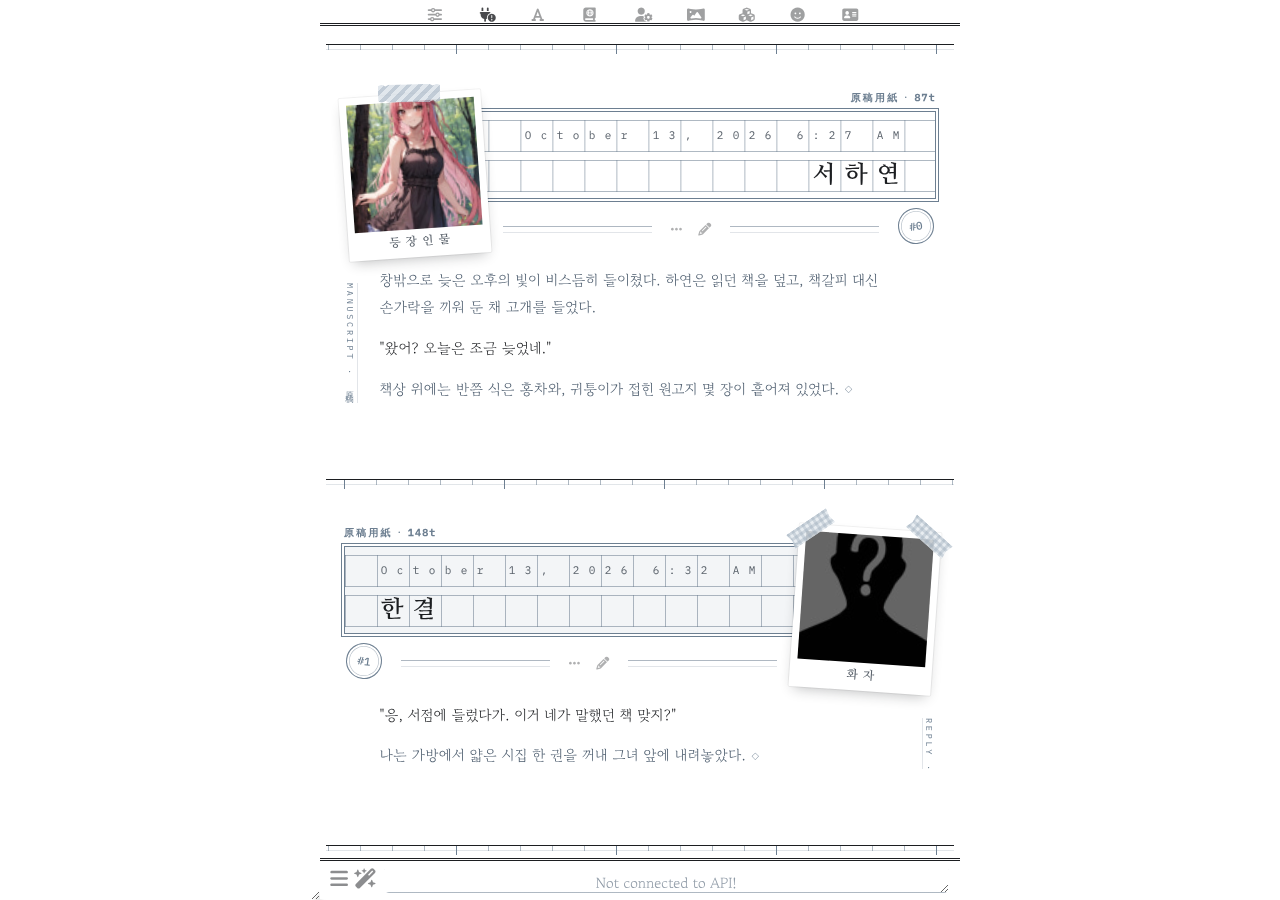
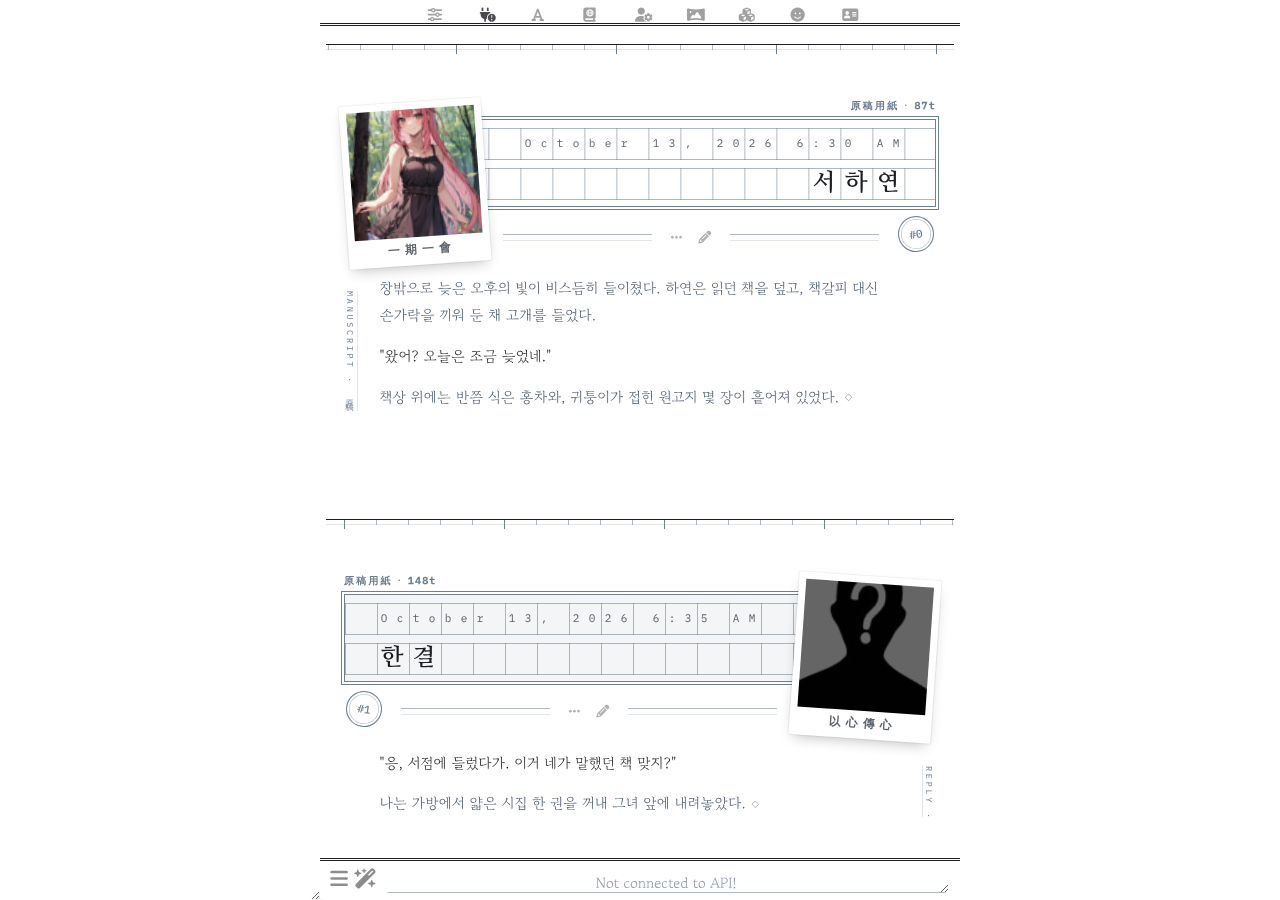
Wongoji: idiom captions, no tapes, more space between messages
- Polaroid captions use four-character idioms (一期一會 / 以心傳心),
  documented as easy-to-edit variables
- Remove polaroid tape stickers
- Larger gap between messages via --wg-after

Claude-Session: https://claude.ai/code/session_01VxNZVdN99GR1yFwUVAN4mT

diff --git a/src/wongoji.css b/src/wongoji.css
@@ -30,9 +30,12 @@
     /* 폴라로이드 사진 필터. 흑백으로 보고 싶다면 grayscale(1) */
     --wg-photo-filter: none;
 
-    /* 폴라로이드 아래 인쇄 글씨 — 소설의 '등장인물'과 '화자' */
-    --wg-caption-char: '등장인물';
-    --wg-caption-user: '화자';
+    /* ── 폴라로이드 아래 글귀 ─────────────────────────────
+       따옴표 안의 글자만 바꾸면 됩니다. 예) '春風秋雨', '그날의 기록'
+       一期一會 (일기일회) — 일생에 단 한 번의 만남
+       以心傳心 (이심전심) — 마음에서 마음으로 전함            */
+    --wg-caption-char: '一期一會';
+    --wg-caption-user: '以心傳心';
 
     /* 띠 위 여백에 인쇄된 이름 (토큰 수가 뒤에 붙습니다) */
     --wg-paper-label: '原稿用紙';
@@ -56,7 +59,8 @@
     --wg-cell: 32px;              /* 칸 */
     --wg-gap: 8px;                /* 줄 사이 틈 */
     --wg-name-size: 24px;         /* 이름 글자 (칸보다 작게) */
-    --wg-pad: 66px;               /* 구분선과 띠 사이 */
+    --wg-pad: 74px;               /* 구분선과 띠 사이 */
+    --wg-after: 108px;            /* 본문 끝과 다음 구분선 사이 */
     --wg-side: 18px;
     --wg-photo: 128px;
     --wg-stamp-size: 36px;               /* 번호 도장 지름 */
@@ -81,7 +85,8 @@
         --wg-ts-per: 3;
         --wg-gap: 6px;
         --wg-name-size: 19px;
-        --wg-pad: 56px;
+        --wg-pad: 62px;
+        --wg-after: 92px;
         --wg-side: 10px;
         --wg-photo: 100px;
         --wg-stamp-size: 31px;
@@ -190,7 +195,7 @@ body {
 
     display: block;
     position: relative;
-    padding: calc(var(--wg-pad) + var(--wg-band-h) + 12px) var(--wg-side) 76px;
+    padding: calc(var(--wg-pad) + var(--wg-band-h) + 12px) var(--wg-side) var(--wg-after);
     margin: 0;
     /* 구분선 — 원고지 낱장의 머리처럼, 칸마다 눈금을 새긴 자 */
     border-top: 1px solid var(--wg-ink);
@@ -297,50 +302,6 @@ body {
 
 #chat .mes .avatar:hover {
     transform: rotate(0deg) scale(1.03);
-}
-
-/* 마스킹 테이프 */
-#chat .mes .avatar::before {
-    content: '';
-    position: absolute;
-    top: calc(var(--wg-frame) * -1.5);
-    left: 50%;
-    width: 44%;
-    height: calc(var(--wg-frame) * 2.6);
-    transform: translateX(-50%) rotate(3deg);
-    background: repeating-linear-gradient(-45deg,
-        rgba(170, 184, 199, 0.72) 0 4px,
-        rgba(214, 222, 230, 0.72) 4px 8px);
-    clip-path: polygon(0 8%, 6% 0, 12% 10%, 18% 0, 82% 0, 88% 10%, 94% 0, 100% 8%,
-        100% 92%, 94% 100%, 88% 90%, 82% 100%, 18% 100%, 12% 90%, 6% 100%, 0 92%);
-    z-index: 1;
-}
-
-/* 유저 — 모서리 두 곳에 체크무늬 테이프 */
-#chat .mes[is_user="true"] .avatar::before,
-#chat .mes[is_user="true"] .avatar::after {
-    content: '';
-    position: absolute;
-    top: calc(var(--wg-frame) * -0.6);
-    width: 34%;
-    height: calc(var(--wg-frame) * 2.4);
-    background:
-        linear-gradient(90deg, rgba(150, 166, 182, 0.35) 50%, transparent 50%) 0 0 / 6px 6px,
-        linear-gradient(rgba(150, 166, 182, 0.35) 50%, transparent 50%) 0 0 / 6px 6px,
-        rgba(226, 232, 238, 0.8);
-    clip-path: polygon(0 0, 100% 0, 96% 50%, 100% 100%, 0 100%, 4% 50%);
-    z-index: 1;
-}
-
-#chat .mes[is_user="true"] .avatar::before {
-    left: calc(var(--wg-frame) * -1.8);
-    transform: rotate(-38deg);
-}
-
-#chat .mes[is_user="true"] .avatar::after {
-    left: auto;
-    right: calc(var(--wg-frame) * -1.8);
-    transform: rotate(38deg);
 }
 
 #chat .mes .avatar img {
@@ -869,7 +830,7 @@ body.no-tokenCount #chat .mes .ch_name::after {
     content: var(--wg-spine-char);
     position: absolute;
     top: calc(var(--wg-pad) + var(--wg-band-h) + 84px);
-    bottom: 76px;
+    bottom: var(--wg-after);
     left: var(--wg-side);
     width: 14px;
     box-sizing: border-box;

diff --git a/README.md b/README.md
@@ -14,7 +14,7 @@ SillyTavern UI 테마입니다. 흰 바탕과 먹, 청회색으로 인쇄된 원
   - 둘째 줄: 이름을 한 칸에 한 글자씩. 모두 끝 한 칸을 비우고 적습니다.
   - 띠 위 여백에는 `原稿用紙 · 412t`처럼 메시지의 토큰 수가 인쇄됩니다. 토큰 수 표시(Message Token Count)를 끄면 `原稿用紙`만 남습니다.
   - 띠 끝 아래에는 채팅 번호가 원형 도장으로 찍힙니다.
-- **폴라로이드**: 아바타는 컬러 폴라로이드로 띠 위에 비스듬히 겹쳐 놓입니다. 캐릭터 사진에는 가운데에 사선 줄무늬 테이프가, 유저 사진에는 두 모서리에 체크무늬 테이프가 붙습니다. 아래 여백에는 소설 용어로 `등장인물`(캐릭터), `화자`(유저)가 인쇄됩니다.
+- **폴라로이드**: 아바타는 컬러 폴라로이드로 띠 위에 비스듬히 겹쳐 놓입니다. 아래 여백에는 사자성어가 인쇄됩니다. 캐릭터는 `一期一會`(일기일회, 일생에 단 한 번의 만남), 유저는 `以心傳心`(이심전심, 마음에서 마음으로 전함)이고, 원하는 글귀로 쉽게 바꿀 수 있습니다(아래 참고).
 - **버튼 줄**: 띠와 본문 사이에 메시지 버튼을 두고, 그 양옆에 가는 이중 괘선을 그었습니다.
 - **본문**: 가독성을 위해 틀과 칸 배경 없이 종이 위에 바로 씁니다. 본문 옆에 책등처럼 세로 표기(`MANUSCRIPT · 原稿`, `REPLY · 答書`)가 붙고, 글 끝에는 마침 기호 `◇`가 찍힙니다.
 - **문장 표현**: 대사와 본문은 먹색, 지문과 속마음은 청회색입니다. 인용(`>`)은 책 뒤표지의 제사(題辭)처럼 큰 따옴표가 달린 가운데 정렬 청회색 상자로, 장면 전환(`---`)은 `＊`로 보입니다.
@@ -35,13 +35,27 @@ SillyTavern UI 테마입니다. 흰 바탕과 먹, 청회색으로 인쇄된 원
 
 모든 값은 Custom CSS 맨 위 `:root` 변수에 모여 있습니다.
 
+### 폴라로이드 글귀 바꾸기
+
+SillyTavern → 사용자 설정 → **Custom CSS** 맨 위에서 아래 두 줄을 찾아 따옴표 안의 글자만 바꾸면 됩니다. 한자, 한글, 영문 모두 됩니다.
+
+```css
+--wg-caption-char: '一期一會';   /* 캐릭터 */
+--wg-caption-user: '以心傳心';   /* 유저 */
+```
+
+바꾼 뒤 UI Theme 옆의 저장 버튼을 누르면 테마에 함께 저장됩니다.
+
+### 그 밖의 변수
+
 | 변수 | 용도 |
 | --- | --- |
 | `--wg-desk`, `--wg-paper`, `--wg-paper-user` | 바탕, 원고지 종이, 유저 원고지 색 |
 | `--wg-print`, `--wg-print-line` | 원고지 인쇄색(청회색) |
 | `--wg-quote`, `--wg-em` | 대사와 지문 색 |
 | `--wg-photo-filter` | 폴라로이드 필터. `grayscale(1)`로 두면 흑백 사진이 됩니다 |
-| `--wg-caption-char`, `--wg-caption-user` | 폴라로이드 아래 글씨 |
+| `--wg-caption-char`, `--wg-caption-user` | 폴라로이드 아래 글귀 |
+| `--wg-pad`, `--wg-after` | 구분선 아래 여백, 본문 끝과 다음 구분선 사이 여백 |
 | `--wg-paper-label` | 띠 위 여백에 인쇄되는 이름 (기본 `原稿用紙`) |
 | `--wg-stamp-size` | 번호 도장 지름 |
 | `--wg-ts-per` | 날짜를 한 칸에 몇 자씩 적을지 |
